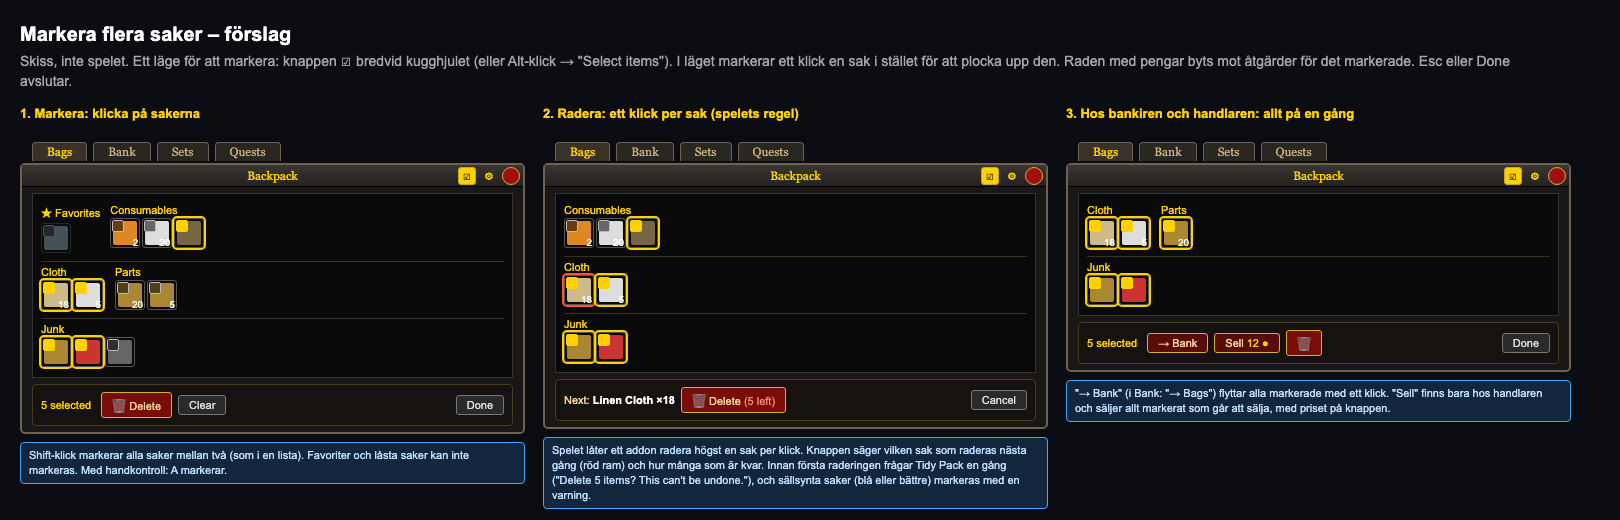
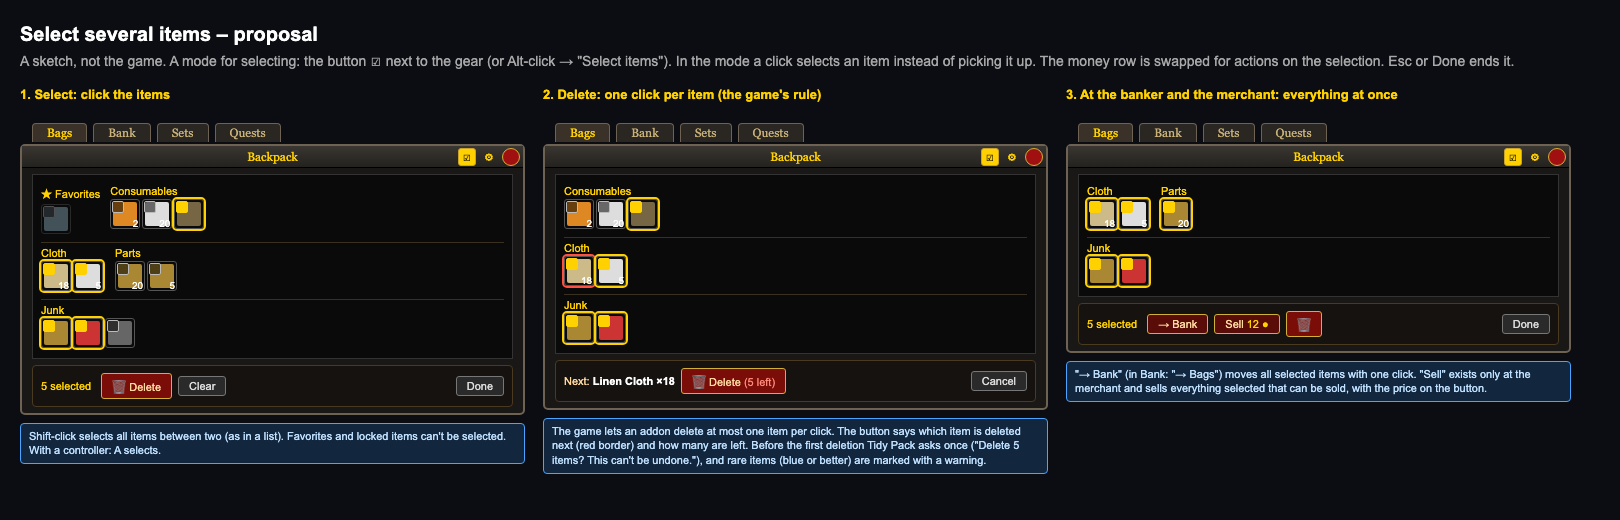
Translate .design/sketch-select to English (#7)

Changed region(s): [[0.0, 0.0308, 0.9877, 0.9846]]

diff --git a/.design/sketch-select.html b/.design/sketch-select.html
@@ -1,4 +1,4 @@
-<!DOCTYPE html><html><head><meta charset="utf-8"><title>Tidy Pack – skiss: markera flera</title>
+<!DOCTYPE html><html><head><meta charset="utf-8"><title>Tidy Pack – sketch: select several</title>
 <style>
 *{box-sizing:border-box}body{margin:0;padding:20px;background:#0b0d12;color:#d8d8d8;font:14px/1.4 Arial,sans-serif;width:1580px}
 h1{font-size:20px;margin:0 0 4px;color:#fff}.n{color:#a8a8a8;margin:0 0 14px;max-width:1500px}
@@ -24,11 +24,11 @@ h1{font-size:20px;margin:0 0 4px;color:#fff}.n{color:#a8a8a8;margin:0 0 14px;max
 .call{background:#12263d;border:1px solid #4aa3ff;color:#bfe0ff;font:11px/1.35 Arial;padding:5px 8px;border-radius:4px;margin-top:8px}
 .next{font:11px Arial;color:#ffd9a0}
 </style></head><body>
-<h1>Markera flera saker – förslag</h1>
-<p class="n">Skiss, inte spelet. Ett läge för att markera: knappen ☑ bredvid kugghjulet (eller Alt-klick → "Select items"). I läget markerar ett klick en sak i stället för att plocka upp den. Raden med pengar byts mot åtgärder för det markerade. Esc eller Done avslutar.</p>
+<h1>Select several items – proposal</h1>
+<p class="n">A sketch, not the game. A mode for selecting: the button ☑ next to the gear (or Alt-click → "Select items"). In the mode a click selects an item instead of picking it up. The money row is swapped for actions on the selection. Esc or Done ends it.</p>
 <div class="row">
 
-<div class="col"><h2>1. Markera: klicka på sakerna</h2><div class="bag mode">
+<div class="col"><h2>1. Select: click the items</h2><div class="bag mode">
 <div class="tabs"><div class="tab on">Bags</div><div class="tab">Bank</div><div class="tab">Sets</div><div class="tab">Quests</div></div>
 <div class="t">Backpack<div class="selb on">☑</div><div class="g">⚙</div><div class="x"></div></div>
 <div class="in">
@@ -38,9 +38,9 @@ h1{font-size:20px;margin:0 0 4px;color:#fff}.n{color:#a8a8a8;margin:0 0 14px;max
 </div>
 <div class="foot"><span class="cnt">5 selected</span><span class="btn red">🗑 Delete</span><span class="btn g2">Clear</span><span class="r"></span><span class="btn g2">Done</span></div>
 </div>
-<div class="call">Shift-klick markerar alla saker mellan två (som i en lista). Favoriter och låsta saker kan inte markeras. Med handkontroll: A markerar.</div></div>
+<div class="call">Shift-click selects all items between two (as in a list). Favorites and locked items can't be selected. With a controller: A selects.</div></div>
 
-<div class="col"><h2>2. Radera: ett klick per sak (spelets regel)</h2><div class="bag mode">
+<div class="col"><h2>2. Delete: one click per item (the game's rule)</h2><div class="bag mode">
 <div class="tabs"><div class="tab on">Bags</div><div class="tab">Bank</div><div class="tab">Sets</div><div class="tab">Quests</div></div>
 <div class="t">Backpack<div class="selb on">☑</div><div class="g">⚙</div><div class="x"></div></div>
 <div class="in">
@@ -50,9 +50,9 @@ h1{font-size:20px;margin:0 0 4px;color:#fff}.n{color:#a8a8a8;margin:0 0 14px;max
 </div>
 <div class="foot"><span class="next">Next: <b style="color:#fff">Linen Cloth ×18</b></span><span class="btn red">🗑 Delete <i>(5 left)</i></span><span class="r"></span><span class="btn g2">Cancel</span></div>
 </div>
-<div class="call">Spelet låter ett addon radera högst en sak per klick. Knappen säger vilken sak som raderas nästa gång (röd ram) och hur många som är kvar. Innan första raderingen frågar Tidy Pack en gång ("Delete 5 items? This can't be undone."), och sällsynta saker (blå eller bättre) markeras med en varning.</div></div>
+<div class="call">The game lets an addon delete at most one item per click. The button says which item is deleted next (red border) and how many are left. Before the first deletion Tidy Pack asks once ("Delete 5 items? This can't be undone."), and rare items (blue or better) are marked with a warning.</div></div>
 
-<div class="col"><h2>3. Hos bankiren och handlaren: allt på en gång</h2><div class="bag mode">
+<div class="col"><h2>3. At the banker and the merchant: everything at once</h2><div class="bag mode">
 <div class="tabs"><div class="tab on">Bags</div><div class="tab">Bank</div><div class="tab">Sets</div><div class="tab">Quests</div></div>
 <div class="t">Backpack<div class="selb on">☑</div><div class="g">⚙</div><div class="x"></div></div>
 <div class="in">
@@ -61,6 +61,6 @@ h1{font-size:20px;margin:0 0 4px;color:#fff}.n{color:#a8a8a8;margin:0 0 14px;max
 </div>
 <div class="foot"><span class="cnt">5 selected</span><span class="btn">→ Bank</span><span class="btn">Sell <i style="color:#ffd100">12 ●</i></span><span class="btn red">🗑</span><span class="r"></span><span class="btn g2">Done</span></div>
 </div>
-<div class="call">"→ Bank" (i Bank: "→ Bags") flyttar alla markerade med ett klick. "Sell" finns bara hos handlaren och säljer allt markerat som går att sälja, med priset på knappen.</div></div>
+<div class="call">"→ Bank" (in Bank: "→ Bags") moves all selected items with one click. "Sell" exists only at the merchant and sells everything selected that can be sold, with the price on the button.</div></div>
 
 </div></body></html>
